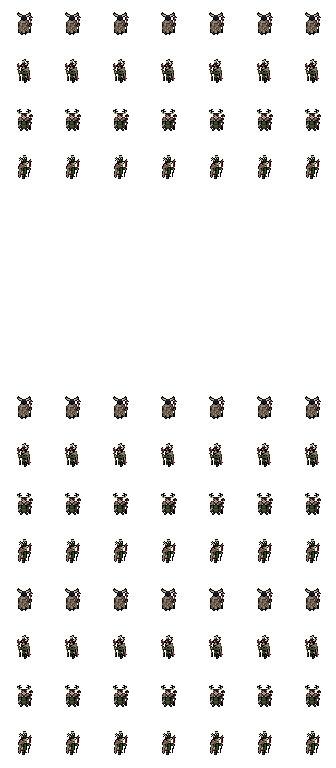
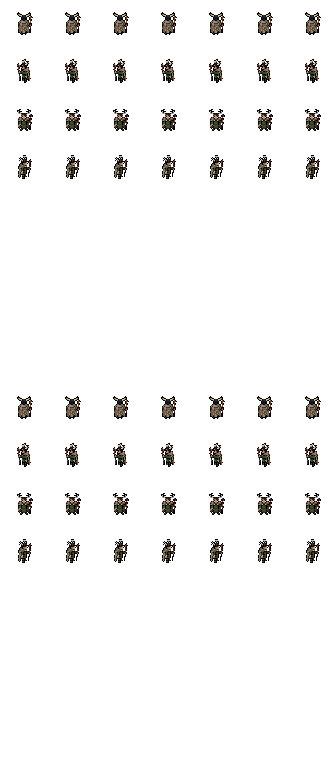
fix

diff --git a/src/entities/player.js b/src/entities/player.js
@@ -737,6 +737,38 @@ export class Player {
                 this._setAnimState('idle');
             }
         }
+
+        // --- Lava Damage Logic ---
+        if (dungeon) {
+            const gx = Math.floor(this.x / dungeon.tileSize);
+            const gy = Math.floor(this.y / dungeon.tileSize);
+            if (gx >= 0 && gx < dungeon.width && gy >= 0 && gy < dungeon.height) {
+                if (dungeon.grid[gy][gx] === 13) { // TILE.LAVA
+                    this._lavaTimer = (this._lavaTimer || 0) + dt;
+                    if (this._lavaTimer >= 0.5) { // Damage every 0.5s
+                        this._lavaTimer = 0;
+                        applyDamage(null, this, { dealt: 5, isCrit: false, type: 'fire' }, 'lava');
+                        if (fx) fx.emitBurst(this.x, this.y, '#ff4500', 8);
+                    }
+                }
+            }
+        }
+        }
+        // --- Lava Damage Logic ---
+        if (dungeon) {
+            const gx = Math.floor(this.x / dungeon.tileSize);
+            const gy = Math.floor(this.y / dungeon.tileSize);
+            if (gx >= 0 && gx < dungeon.width && gy >= 0 && gy < dungeon.height) {
+                if (dungeon.grid[gy][gx] === 13) { // TILE.LAVA
+                    this._lavaTimer = (this._lavaTimer || 0) + dt;
+                    if (this._lavaTimer >= 0.5) { // Damage every 0.5s
+                        this._lavaTimer = 0;
+                        applyDamage(null, this, { dealt: 5, isCrit: false, type: 'fire' }, 'lava');
+                        if (fx) fx.emitBurst(this.x, this.y, '#ff4500', 8);
+                    }
+                }
+            }
+        }
     }
 
     _setAnimState(state) {

diff --git a/src/world/dungeon.js b/src/world/dungeon.js
@@ -129,7 +129,7 @@ export class Dungeon {
             type: 'waypoint', 
             x: this.playerStart.x + 32, 
             y: this.playerStart.y, 
-            icon: 'env_stairs_up', 
+            icon: 'obj_waypoint', 
             zone: zoneLevel 
         });
 
@@ -878,11 +878,10 @@ export class Dungeon {
         const r = Math.floor(wy / this.tileSize);
         if (r < 0 || r >= this.height || c < 0 || c >= this.width) return false;
         const tile = this.grid[r][c];
-        // Non-walkable: WALL, WATER, TREE, CACTUS, LAVA
-        return tile !== TILE.WALL && tile !== TILE.WATER && tile !== TILE.TREE 
-            && tile !== TILE.CACTUS && tile !== TILE.LAVA;
-    }
-
+        // Non-walkable: WALL, WATER, TREE, CACTUS. LAVA is now walkable but dangerous.
+        return tile !== TILE.WALL && tile !== TILE.WATER && tile !== TILE.TREE
+            && tile !== TILE.CACTUS;
+        }
     /** Raycast using Digital Differential Analyzer (DDA) to check Line of Sight */
     hasLineOfSight(x0, y0, x1, y1) {
         const c0 = Math.floor(x0 / this.tileSize);

diff --git a/src/entities/mercenary.js b/src/entities/mercenary.js
@@ -227,11 +227,9 @@ export class Mercenary {
         } else {
             dir = my > 0 ? 'down' : 'up';
         }
-
-        const state = (this._atkCd > 0) ? 'attack' : 'walk'; // Simplistic state mapping
         
-        // Use the Pro Animator with high-quality size
-        renderer.drawAnim(this.icon, this.x, this.y - 4, 32, state, dir, time, null, this.equipment);
+        // Use the Pro Animator with scale 24 and forced IDLE
+        renderer.drawAnim(this.icon, this.x, this.y - 4, 24, 'idle', dir, time, null, this.equipment);
         
         // Draw HP bar
         const hpPct = this.hp / this.maxHp;

diff --git a/src/data/assets_list.js b/src/data/assets_list.js
@@ -12,6 +12,7 @@ export const ASSET_NAMES = [
     'env_bridge', 'env_door', 'env_floor', 'env_grass', 'env_path', 'env_sand', 
     'env_sand_hd', 'env_stairs_down', 'env_stairs_up', 'env_tree', 'env_wall', 'env_water', 
     'npc_elder', 'npc_merchant', 'npc_female', 'mercenary_warrior', 'mercenary_archer',
+    'obj_portal', 'obj_waypoint', 'obj_stairs_up', 'obj_stairs_down',
     'obj_barrel', 'obj_chest', 'obj_chest_hd_v2', 'obj_chest_open', 'obj_debris', 'obj_shrine', 'obj_shrine_used', 'obj_urn',
     'item_amulet', 'item_armor_leather', 'item_armor_plate', 'item_potion_hp', 'item_potion_mp', 'item_ring'
 ];

diff --git a/src/main.js b/src/main.js
@@ -996,7 +996,7 @@ function gameLoop(timestamp) {
                 renderer.ctx.restore();
             }
 
-            renderer.drawAnim(`class_${e.classId}`, e.x, e.y - 4, 36, e.animState, e.facingDir, lastTime, null, e.equipment, e.hitFlashTimer);
+            renderer.drawAnim(`class_${e.classId}`, e.x, e.y - 4, 26, e.animState, e.facingDir, lastTime, null, e.equipment, e.hitFlashTimer);
             e.renderMinions(renderer, lastTime);
         } else {
             // Mercenary specific icon handling

diff --git a/stitch_pixellab.py b/stitch_pixellab.py
@@ -4,7 +4,7 @@ import zipfile
 import glob
 from PIL import Image
 
-# Nuevos IDs en alta calidad (Modo Pro y PixelLab)
+# IDs Pro de PixelLab
 characters = {
     'class_shaman': 'ae37eab8-b1f5-4c5b-b207-65a6148f0b4f',
     'class_druid': '3a7a04c0-dec4-4b08-b40d-73cc5e31af23',
@@ -16,113 +16,60 @@ characters = {
     'class_ranger': 'd27723e9-23e1-4b8f-a5ca-3b6a266e2dda',
     'class_paladin': 'd075b40e-6c41-432e-bebe-a86b7bfdc3a3',
     'boss_diablo': '504e1076-bb7b-41eb-82ea-5d07bfbfd31a',
-    'boss_andariel': 'f73581cc-b48d-448d-89cc-9196a9f85072',
-    'boss_duriel': '96746c8f-3d89-4515-898e-2206bf085ee5',
-    'boss_mephisto': 'c90b6e21-3e56-4905-89b7-0c01b039a221',
-    'boss_baal': '3080de8c-2ad5-414c-ac79-9fb2490e3413',
-    'boss_leoric': 'e1976334-f91e-4c7c-90ce-e20ce68b910f',
-    'boss_the_butcher': '7bccc472-12fe-4a99-b64b-5628642fcb56',
-    'boss_angry_jano': 'cc623854-af52-4a8e-a6d8-6f5e83971234',
-    'boss_demon_wirt': 'd25e6e35-6e41-4a98-a2d2-e86659215835',
-    'boss_cow_king': 'd33759f6-cf40-45bc-850d-297270013d01',
-    'npc_deckard_cain': '2b2b979f-373a-47f1-a7e0-0c803184bcb7',
-    'npc_blacksmith': 'e0ea56b6-1a5f-4f70-96de-20afe65fb336',
-    'enemy_goatman': '02815d2d-4fad-4d90-8188-b253f5003854',
-    'enemy_goblin': '8e6c49b1-f547-4312-8536-75edfba72ed8',
-    'enemy_ghost': 'e3253d3b-d2d4-427e-8d8d-95a632527281',
-    'enemy_golem': '33616bae-c7cc-4eeb-8487-0f1d89082537',
-    'enemy_bat': '79ed604a-5a85-4105-94ec-1ddcca138559',
-    'enemy_goatman': '8a029453-f6b2-4323-a1cc-cd75d784656d',
-    'enemy_wraith': '3ccc656a-afb6-4702-b5fe-4cf668af9dd5',
-    'summon_skeleton': '8b6f40fe-7838-4ad6-9151-46a39cc46b2e',
-    'summon_blood_golem': '883719ec-6bbd-4e55-ad2e-d445cb04aaf8',
-    'summon_clay_golem': '830b6603-faba-4ee2-960a-7745550cdc0e',
-    'summon_fire_golem': '10dd6c0d-e277-4215-bc02-fd1690c4e0e8',
-    'summon_iron_golem': '5bc2abf8-ea38-4557-abcc-c1a14bf8123b',
-    'summon_spirit_wolf': '238af4cd-19e4-48cc-9d6d-21eccdb135de',
-    'summon_dire_wolf': '5c831890-d2f0-4bc0-a284-6860fc39ec30',
-    'summon_grizzly': '2be04ae7-d183-4464-8b57-5e4f1948142b',
-    'summon_skeleton_mage': '87109bbf-d6bc-495d-bb39-69d69cbfe1de',
-    'summon_valkyrie': 'd00b1f9a-db42-4871-8531-bc65e6e258d5',
-    'summon_voidwalker': 'be834c9d-1502-4e80-9050-e3d02eaf1e95',
-    'npc_blacksmith': 'bbb9fce5-39ef-4137-84e9-e5f736d83b3b',
-    'npc_merchant': '6df53205-1049-4653-8707-690462701ef4',
-    'npc_elder': 'cd664987-a540-4bab-8c54-5e074ef9c26a',
-    'npc_guard': 'dc4b6c63-ec01-4432-98bd-091c5299c526',
-    'npc_female': '983089b2-82fa-4cf1-ac06-dd8789654980',
     'mercenary_warrior': '6b069940-48d2-4807-a972-54e4b37172fc',
-    'mercenary_archer': 'c0889882-47fa-4b39-9f0f-e880ef0987d6'
+    'mercenary_archer': 'c0889882-47fa-4b39-9f0f-e880ef0987d6',
+    'enemy_skeleton': '18522dce-0d11-497c-b7c3-283ae050bb69',
+    'enemy_zombie': 'd248621b-f7f1-4071-b44f-189f13e984e7'
 }
 
 sw, sh = 48, 48
-cols = 7
-rows = 16
-out_w, out_h = sw * cols, sh * rows
-
+cols, rows = 7, 16
 dirs = {'north': 0, 'west': 1, 'south': 2, 'east': 3}
 
+def find_anim_folder(base_path, anim_name):
+    # Busca carpetas que contengan el nombre de la animación (ej: walking-xxxxx)
+    search_path = os.path.join(base_path, "animations")
+    if not os.path.exists(search_path): return None
+    for folder in os.listdir(search_path):
+        if anim_name in folder:
+            return os.path.join(search_path, folder)
+    return None
+
 for name, char_id in characters.items():
-    print(f"Procesando {name}...")
-    url = f"https://api.pixellab.ai/mcp/characters/{char_id}/download"
-    zip_path = f"tmp_zips/{name}.zip"
+    print(f"🛠 Procesando animación para: {name}...")
     tmp_dir = f"tmp_{name}"
     
-    try:
-        # Descarga
-        req = urllib.request.Request(url, headers={'User-Agent': 'Mozilla/5.0'})
-        with urllib.request.urlopen(req) as response, open(zip_path, 'wb') as out_file:
-            out_file.write(response.read())
-            
-        print(f"✅ {name} descargado. Ensamblando...")
-        
-        # Extracción
-        with zipfile.ZipFile(zip_path, 'r') as zip_ref:
-            zip_ref.extractall(tmp_dir)
-            
-        # Si es un boss como Diablo, su tamaño puede ser diferente, lo forzamos al canvas del juego (o más grande si el juego lo soporta)
-        is_boss = name.startswith('boss_')
-        current_sw, current_sh = (128, 128) if is_boss else (48, 48)
-        current_out_w, current_out_h = current_sw * cols, current_sh * rows
-        
-        img_out = Image.new('RGBA', (current_out_w, current_out_h), (0,0,0,0))
-        
-        for d_name, d_idx in dirs.items():
-            # Buscar frames de animaciones específicas
-            walk_frames = sorted(glob.glob(f"{tmp_dir}/animations/walk/{d_name}/*.png"))
-            idle_frames = sorted(glob.glob(f"{tmp_dir}/animations/breathing-idle/{d_name}/*.png"))
-            attack_frames = sorted(glob.glob(f"{tmp_dir}/animations/fireball/{d_name}/*.png"))
-            
-            # Si no hay animación, usamos la rotación base como fallback para todos los frames
-            base_frame_path = f"{tmp_dir}/rotations/{d_name}.png"
-            if not os.path.exists(base_frame_path) and walk_frames:
-                 base_frame_path = walk_frames[0]
-                 
-            # Llenar Idle (0-3)
-            for i in range(cols):
-                frame_path = idle_frames[i % len(idle_frames)] if idle_frames else base_frame_path
-                if os.path.exists(frame_path):
-                    f = Image.open(frame_path).convert('RGBA').resize((current_sw, current_sh), Image.Resampling.NEAREST)
-                    img_out.paste(f, (i * current_sw, d_idx * current_sh))
-                    
-            # Llenar Walk (8-11)
-            for i in range(min(cols, len(walk_frames)) if walk_frames else cols):
-                frame_path = walk_frames[i] if walk_frames else base_frame_path
-                if os.path.exists(frame_path):
-                    f = Image.open(frame_path).convert('RGBA').resize((current_sw, current_sh), Image.Resampling.NEAREST)
-                    img_out.paste(f, (i * current_sw, (8 + d_idx) * current_sh))
-                    
-            # Llenar Attack (12-15)
-            for i in range(min(cols, len(attack_frames)) if attack_frames else cols):
-                frame_path = attack_frames[i] if attack_frames else base_frame_path
-                if os.path.exists(frame_path):
-                    f = Image.open(frame_path).convert('RGBA').resize((current_sw, current_sh), Image.Resampling.NEAREST)
-                    img_out.paste(f, (i * current_sw, (12 + d_idx) * current_sh))
-                    
-        out_path = f"assets/{name}.png"
-        img_out.save(out_path)
-        print(f"🎉 Guardado en {out_path}")
-        
-    except Exception as e:
-        print(f"⚠ Nota: {name} saltado (Aún generando o error: {e})")
+    # 1. Asegurar que tenemos los archivos (ya bajados en el paso anterior)
+    if not os.path.exists(tmp_dir):
+        print(f"⚠ Saltando {name}, no se encontró carpeta temporal.")
+        continue
 
-print("Proceso de descarga y stitching de Pro Heroes completado.")
+    is_boss = name.startswith('boss_')
+    c_sw, c_sh = (128, 128) if is_boss else (48, 48)
+    img_out = Image.new('RGBA', (c_sw * cols, c_sh * rows), (0,0,0,0))
+    
+    # Buscar carpeta de caminata real
+    walk_path = find_anim_folder(tmp_dir, "walking") or find_anim_folder(tmp_dir, "walk")
+    
+    for d_name, d_idx in dirs.items():
+        # Obtener frames de la carpeta encontrada
+        frames = []
+        if walk_path:
+            frames = sorted(glob.glob(os.path.join(walk_path, d_name, "*.png")))
+        
+        # Fallback a rotación estática si no hay frames
+        base_frame_path = os.path.join(tmp_dir, "rotations", f"{d_name}.png")
+        
+        # Llenar la fila de caminata (8 a 11 en el spritesheet del motor)
+        for i in range(cols):
+            f_path = frames[i % len(frames)] if frames else base_frame_path
+            if os.path.exists(f_path):
+                f = Image.open(f_path).convert('RGBA').resize((c_sw, c_sh), Image.Resampling.NEAREST)
+                # Pegar en Idle (0-3) y Walk (8-11)
+                img_out.paste(f, (i * c_sw, (0 + d_idx) * c_sh))
+                img_out.paste(f, (i * c_sw, (8 + d_idx) * c_sh))
+    
+    img_out.save(f"assets/{name}.png")
+    print(f"✅ Spritesheet ANIMADO generado: assets/{name}.png")
+
+print("🚀 ¡Sincronización de animaciones completada!")
